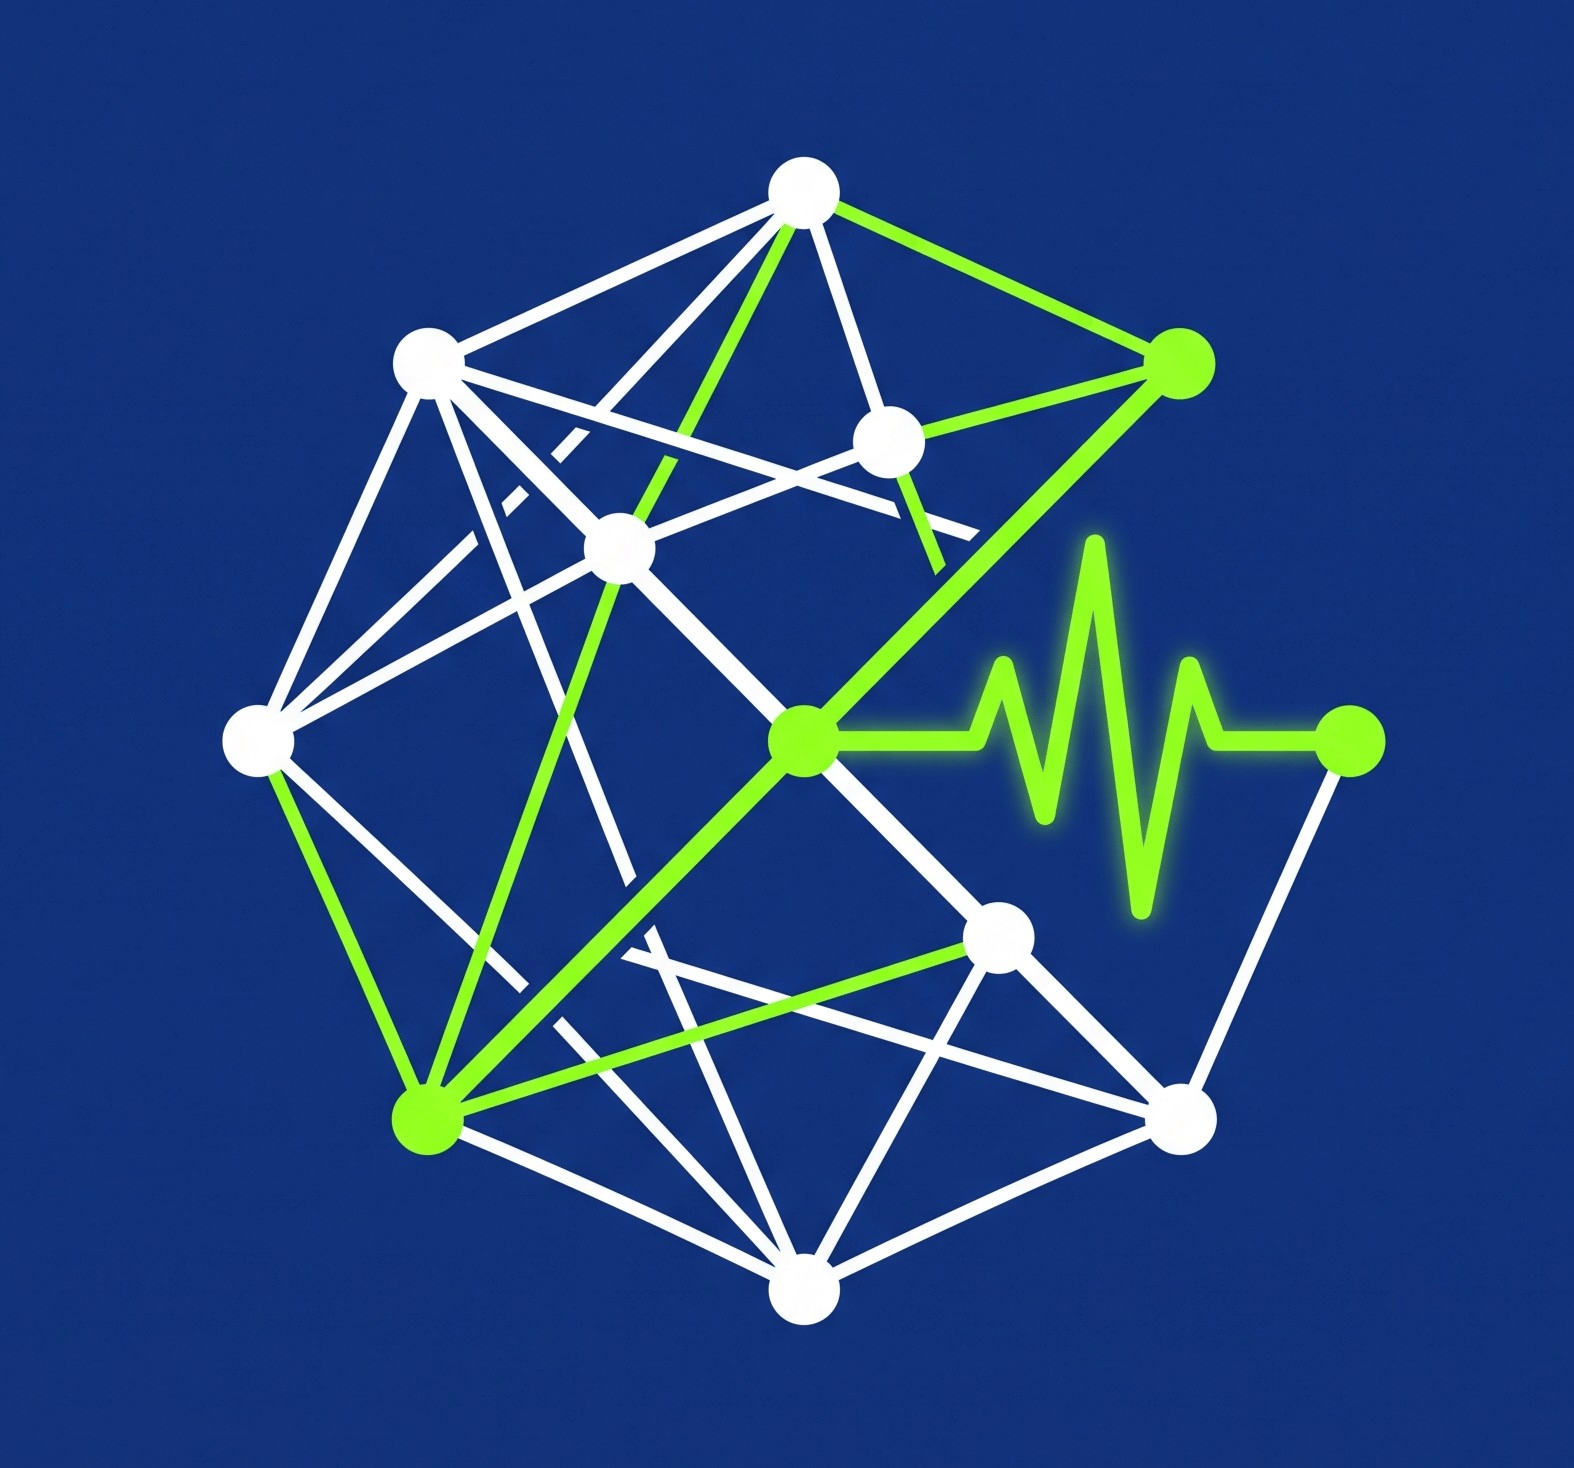
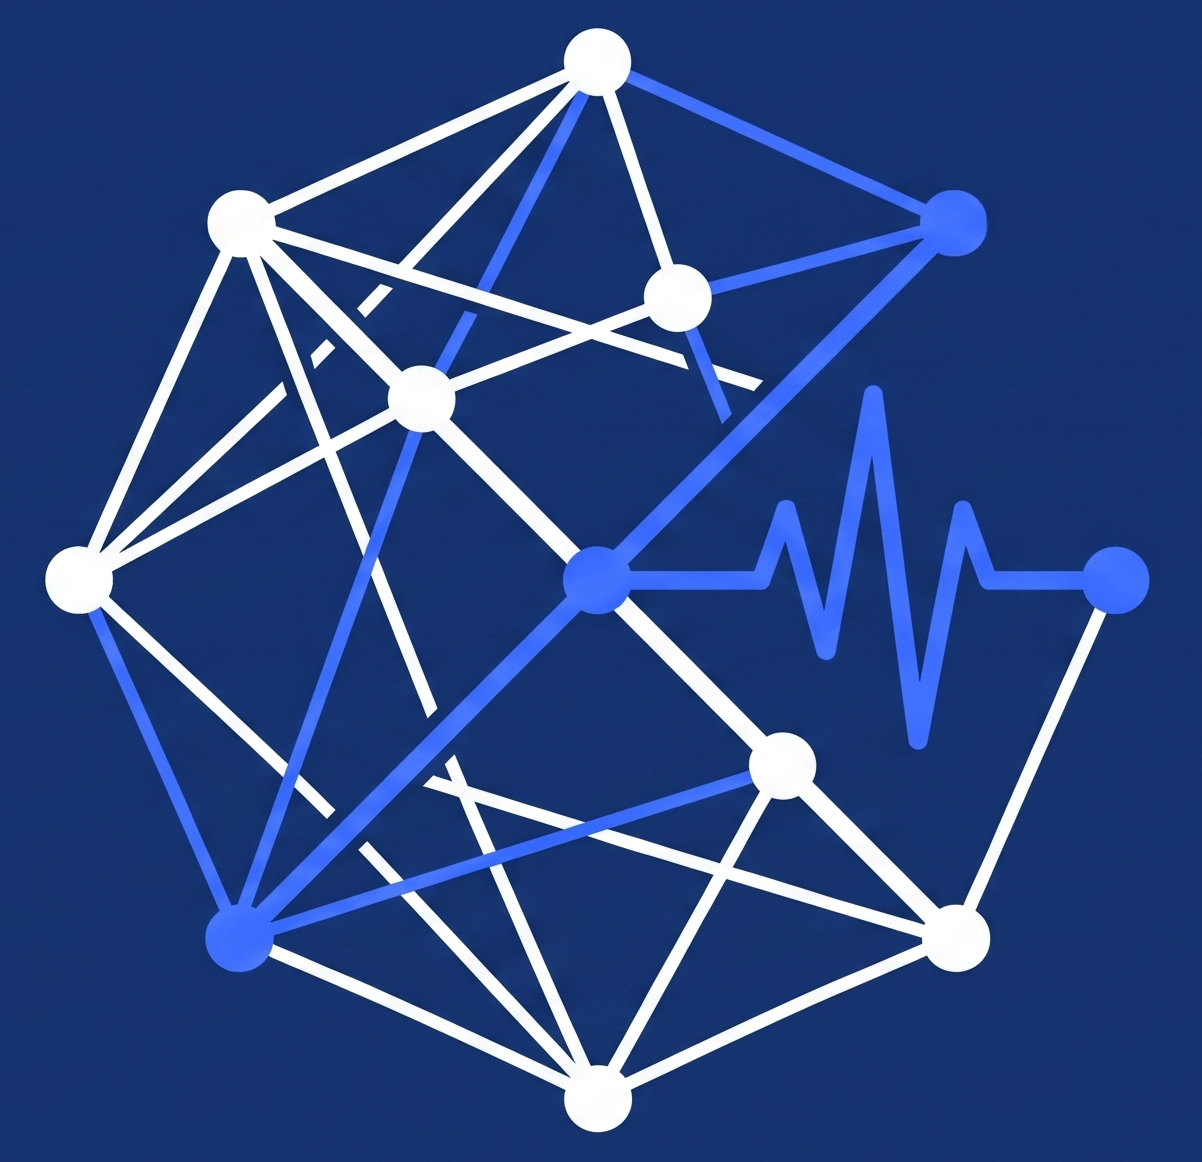
alterações na cor do vanta

Changed region(s): [[0.0308, 0.0, 0.9542, 0.9914], [0.6464, 0.1239, 0.708, 0.1549], [0.5849, 0.0929, 0.6464, 0.1239]]

diff --git a/src/pages/AuthPage.jsx b/src/pages/AuthPage.jsx
@@ -198,7 +198,7 @@ export function AuthPage() {
 
                 <div className="auth-form-panel">
                     <div style={{ textAlign: 'center' }}>
-                        {isLogin && <h1 style={{ margin: 0, color: '#0f172a', fontFamily: "'Architects Daughter', cursive", fontSize: '2.1rem', fontWeight: 400, letterSpacing: '0.5px', lineHeight: 1 }}>Ne<span style={{ color: '#12327b' }}>x</span>T</h1>}
+                        {isLogin && <h1 style={{ margin: 0, color: '#0f172a', fontFamily: "'Architects Daughter', cursive", fontSize: '2.1rem', fontWeight: 400, letterSpacing: '0.5px', lineHeight: 1 }}>Ne<span style={{ color: '#3f6cff' }}>x</span>T</h1>}
                         {isLogin && <h2 style={{ margin: '10px 0 0 0', color: '#0f172a', fontSize: '1.1rem', fontWeight: '700' }}>Login</h2>}
                         {!isLogin && <p style={{ margin: 0, fontSize: '0.75rem', color: '#64748b' }}>Crie a sua conta</p>}
                     </div>

diff --git a/src/components/organisms/SideMenu.jsx b/src/components/organisms/SideMenu.jsx
@@ -35,7 +35,7 @@ export function SideMenu({
                     alt="NexT"
                     className="sidebar-logo"
                 />
-                <span className="sidebar-brand-name">Ne<span style={{ color: '#12327b' }}>x</span>T</span>
+                <span className="sidebar-brand-name">Ne<span style={{ color: '#3f6cff' }}>x</span>T</span>
                 <button
                     type="button"
                     className="sidebar-pin"

diff --git a/src/components/molecules/VantaBackground.jsx b/src/components/molecules/VantaBackground.jsx
@@ -49,7 +49,7 @@ export function VantaBackground() {
                     minWidth: 200.0,
                     scale: 1.0,
                     scaleMobile: 1.0,
-                    color: 0x12327b,
+                    color: 0x3f6cff,
                     backgroundColor: 0x0e0e0f
                 });
             })
